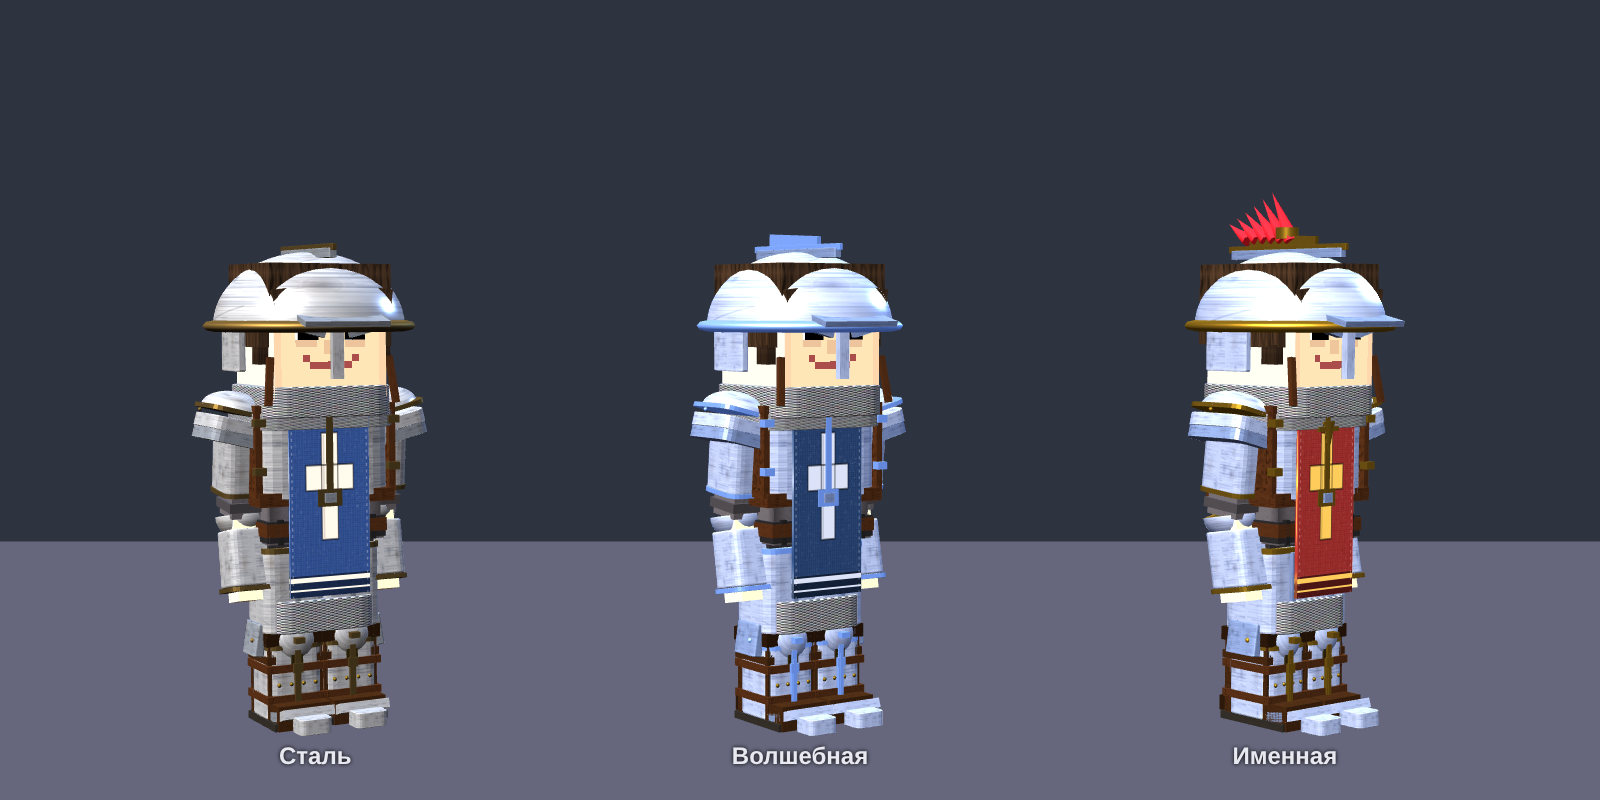
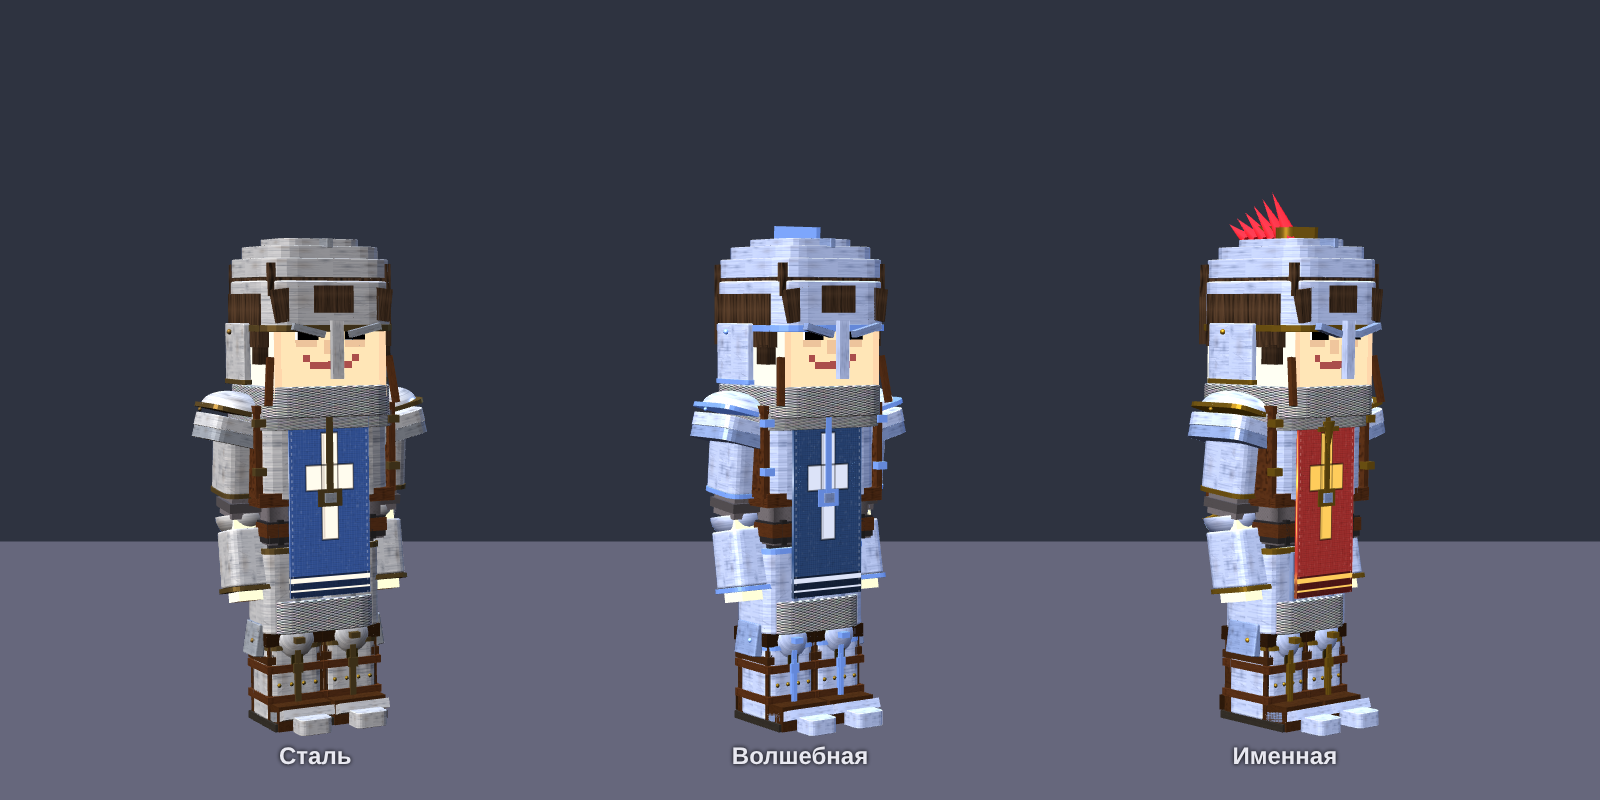
Броня (превью): шлем чуть шире, чтобы чёлка не торчала

Changed region(s): [[0.7188, 0.2812, 0.875, 0.5], [0.125, 0.2812, 0.25, 0.5], [0.4375, 0.2812, 0.5625, 0.5]]

diff --git a/src/entities/KnightArmorLook.js b/src/entities/KnightArmorLook.js
@@ -134,7 +134,7 @@ export function helmetParts(p, code, list, dk = false) {
     const s = steel(code, dk), d = darkSteel(code, dk), t = trim(code, dk), ml = mail(dk), lt = strap(), rm = rivetMat(code, dk);
     const rb = (m, w, h, dd, x, y, z, rx, ry, rz) => put(p, RBOX(), m, list, x, y, z, w, h, dd, rx, ry, rz);
     // a light open Norman cap: a close round skull (four rounded layers that hug the box head and cover the hair — no brim), a thin brow band, a comb along the top
-    rb(s, 1.4, 0.5, 1.4, 0, 0.36, 0); rb(s, 1.38, 0.2, 1.38, 0, 0.74, 0); rb(s, 1.2, 0.14, 1.2, 0, 0.9, 0); rb(s, 0.86, 0.1, 0.86, 0, 1.0, 0);
+    rb(s, 1.46, 0.5, 1.46, 0, 0.36, 0); rb(s, 1.44, 0.2, 1.44, 0, 0.74, 0); rb(s, 1.2, 0.14, 1.2, 0, 0.9, 0); rb(s, 0.86, 0.1, 0.86, 0, 1.0, 0);
     rb(t, 1.44, 0.07, 1.44, 0, 0.12, 0);
     for (let i = 0; i < 12; i++) { const a = i / 12 * Math.PI * 2; rivet(p, rm, list, 0.045, Math.cos(a) * 0.73, 0.12, Math.sin(a) * 0.73); }
     rb(d, 0.1, 0.1, 1.3, 0, 1.0, 0.04); // the comb
